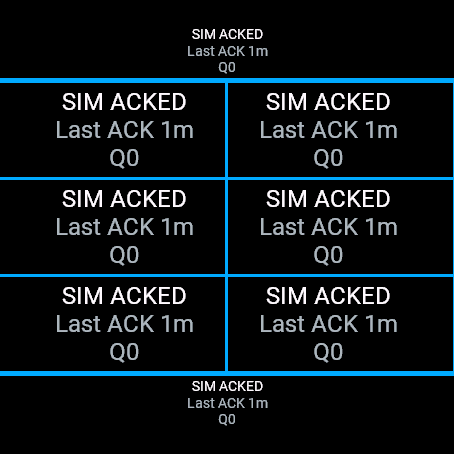
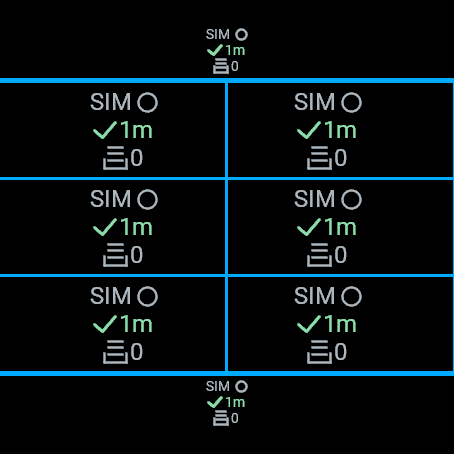
Show symbol-led Garmin fields and refresh real captures

diff --git a/pitwall/index.html b/pitwall/index.html
@@ -51,24 +51,30 @@
           <a href="./transponder-large.png" aria-label="Open the large field simulator capture at full size">
             <img src="./transponder-large.png" alt="Actual Transponder large-field render in the Forerunner 970 simulator, displaying synthetic heart rate and speed with units and upload diagnostics." width="454" height="454" loading="lazy" decoding="async">
           </a>
-          <figcaption><h3>One large field.</h3><p>Heart rate and speed lead, with units, upload status and queue diagnostics.</p></figcaption>
+          <figcaption><h3>One large field.</h3><p>Red heart: heart rate. Blue dial: speed. Upload status sits below.</p></figcaption>
         </figure>
         <figure class="transponder-capture">
           <div class="capture-label"><span>STATUS / HALF FIELD</span><span>SIMULATOR</span></div>
           <a href="./transponder-half.png" aria-label="Open the half field simulator capture at full size">
             <img src="./transponder-half.png" alt="Actual Transponder half-field render in the Forerunner 970 simulator, showing synthetic upload status, historical last acknowledgment and queue diagnostics without heart rate or speed." width="454" height="454" loading="lazy" decoding="async">
           </a>
-          <figcaption><h3>Half-field status.</h3><p>Upload state, the last acknowledged upload and queue diagnostics. No measurement values.</p></figcaption>
+          <figcaption><h3>Half-field status.</h3><p>Upload symbols, acknowledgment age and queued samples.</p></figcaption>
         </figure>
         <figure class="transponder-capture">
           <div class="capture-label"><span>STATUS / COMPACT FIELD</span><span>SIMULATOR</span></div>
           <a href="./transponder-compact.png" aria-label="Open the compact field simulator capture at full size">
             <img src="./transponder-compact.png" alt="Actual Transponder compact-field render in the Forerunner 970 simulator, showing synthetic upload and historical acknowledgment status with queue and loss indicators, without heart rate or speed." width="454" height="454" loading="lazy" decoding="async">
           </a>
-          <figcaption><h3>Compact status.</h3><p>Upload and historical ACK status, with queue and loss indicators in smaller slots.</p></figcaption>
+          <figcaption><h3>Compact status.</h3><p>The same status symbols in smaller slots. No measurement values.</p></figcaption>
         </figure>
       </div>
-      <div class="capture-provenance"><p>Actual simulator captures · synthetic telemetry · Garmin SDK 9.2 · October 6, 2026. Captured directly during the production verification run, with a final sample of 145 bpm / 3.0 m/s. Phone delivery and physical-watch behavior remain unverified.</p><p>The simulator repeats Transponder in each native field slot; cyan lines mark its layout dividers. Last ACK describes an earlier accepted upload. Its age differs between captures because the screens were saved in sequence. Select a capture to view it at full size.</p></div>
+      <div class="field-key" aria-label="Watch status symbols">
+        <span class="upload"><svg viewBox="0 0 24 24" aria-hidden="true"><path d="M12 21V3m-7 7 7-7 7 7"/></svg>Uploading</span>
+        <span class="retry"><svg viewBox="0 0 24 24" aria-hidden="true"><path d="M19 7a8 8 0 1 0 1 9M19 2v6h-6"/></svg>Retry</span>
+        <span class="stopped"><svg viewBox="0 0 24 24" aria-hidden="true"><path d="m8 2 8 0 6 6v8l-6 6H8l-6-6V8Zm0 6 8 8m0-8-8 8"/></svg>Stopped</span>
+        <span class="ack"><svg viewBox="0 0 24 24" aria-hidden="true"><path d="m3 12 6 7L21 5"/></svg>Earlier upload accepted</span>
+      </div>
+      <div class="capture-provenance"><p>Actual simulator captures · synthetic telemetry · Garmin SDK 9.2 · October 6, 2026. Captured directly during the production verification run, with a final sample of 145 bpm / 3.0 m/s. Phone delivery and physical-watch behavior remain unverified.</p><p>The simulator repeats Transponder in each native field slot; cyan lines mark its layout dividers. A green check and age describe an earlier accepted upload, not current connectivity. Ages differ because the screens were saved in sequence. Select a capture to view it at full size.</p></div>
     </section>
     <section class="terminal-section" id="terminal" aria-labelledby="terminal-title">
       <div class="section-heading"><div><p class="eyebrow">02 / The view from the wall</p><h2 id="terminal-title">The actual terminal interface.</h2></div><p>This is the running Chio TUI, captured from the project itself using synthetic workout telemetry.</p></div>

diff --git a/pitwall/styles.css b/pitwall/styles.css
@@ -474,6 +474,35 @@ a:hover {
   font: 12px/1.75 var(--sans);
 }
 
+.field-key {
+  display: flex;
+  flex-wrap: wrap;
+  gap: 14px 24px;
+  margin-top: 24px;
+  font-size: 12px;
+}
+
+.field-key span {
+  display: inline-flex;
+  align-items: center;
+  gap: 8px;
+}
+
+.field-key svg {
+  width: 20px;
+  height: 20px;
+  fill: none;
+  stroke: currentColor;
+  stroke-width: 2;
+  stroke-linecap: round;
+  stroke-linejoin: round;
+}
+
+.field-key .upload { color: #6cbfff; }
+.field-key .retry { color: #ffbe57; }
+.field-key .stopped { color: #ff7974; }
+.field-key .ack { color: #8dddab; }
+
 .capture-provenance {
   max-width: 920px;
   margin-top: 22px;

diff --git a/README.md b/README.md
@@ -60,12 +60,19 @@ acknowledgment was replaced with HTTP 503; these screen captures show the runnin
 renderer and are not separate transport tests. Phone delivery and physical-watch
 behavior remain unverified.
 
-The large field shows heart rate and speed with units and upload diagnostics.
-Half and compact fields show only upload/acknowledgment status and queue/loss
-indicators. The simulator repeats Transponder in every native field slot; visible
-duplicates and cyan layout dividers belong to that simulator page. Last ACK refers
-to an earlier accepted upload, not current connectivity. Its age differs between
-captures because the screens were saved sequentially.
+The large field uses a red heart for heart rate and blue speedometer for speed,
+with units and upload diagnostics. Smaller fields use symbols, numeric counts
+and ages; `SIM` is their only word. A blue arrow means sending, amber circular
+arrow means retry, red octagon means stopped, and green check plus age means an
+earlier accepted upload. A neutral circle means idle; a clock plus `--` means no
+ACK. The tray counts queued/in-flight samples. Crossed downward arrow and circled
+cross mark dropped and rejected samples. A square/minus marks a collection limit,
+barred upward arrow a delivery limit, and warning triangle a setup/reload notice.
+
+The simulator repeats Transponder in every native field slot; visible duplicates
+and cyan layout dividers belong to that simulator page. ACK age is historical,
+not current connectivity. It differs between captures because the screens were
+saved sequentially.
 
 Refresh these PNGs from the actual Garmin simulator during a production run using
 synthetic telemetry, preserving the native square screens. Do not redraw the
